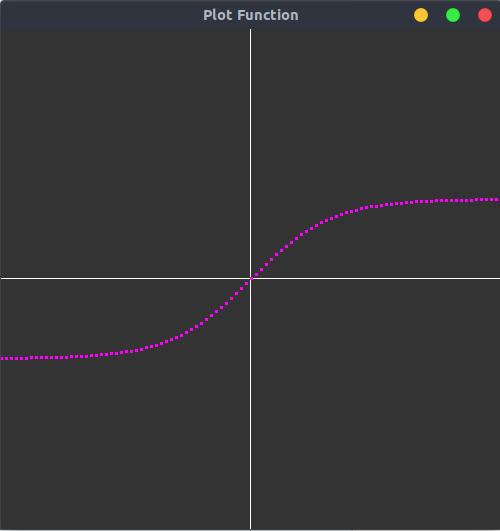
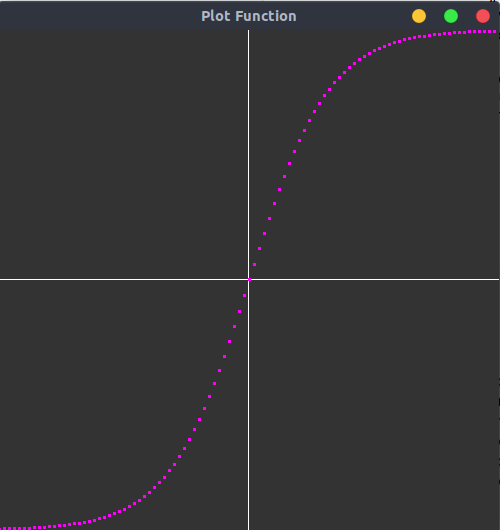
added new photo

diff --git a/2-plotfunc.py b/2-plotfunc.py
@@ -38,7 +38,7 @@ def plotfunc():
   glBegin(GL_POINTS)
 
   for x in np.arange(-dom, dom, dom/50.0):
-    y=np.tanh(x)
+    y=np.pi*np.tanh(x)
     glVertex2f(x,y)
   
 
